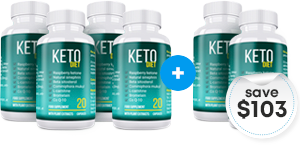
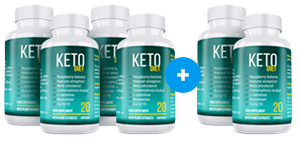
version 1.4

diff --git a/src/sass/block/purchase.scss b/src/sass/block/purchase.scss
@@ -82,6 +82,57 @@
 
 .purchase__media {
     position: relative;
+    z-index: 1;
+}
+
+.purchase__media-save {
+    display: flex;
+    flex-direction: column;
+    justify-content: center;
+    align-items: center;
+    position: absolute;
+    bottom: 0;
+    right: 0;
+    width: 78px;
+    height: 73px;
+    background-image: url('../media/purchase/save.png');
+    background-repeat: no-repeat;
+
+    & p {
+        font-size: 24px;
+        font-weight: 700;
+        line-height: .9;
+        text-align: center;
+        margin-right: 8px;
+
+        & span {
+            display: block;
+            font-size: 14px;
+        }
+    }
+}
+
+.purchase__media-normal {
+    position: absolute;
+    top: 35px;
+    left: 55px;
+    z-index: -1;
+    display: flex;
+    flex-direction: column;
+    justify-content: center;
+    width: 145px;
+    height: 90px;
+    border: 2px dashed #c5c5c5;
+    font-size: 22px;
+    font-weight: 700;
+    font-style: italic;
+    color: #c5c5c5;
+    padding: 15px 15px 15px 25px;
+    border-radius: 5px;
+
+    & span {
+        font-size: inherit;
+    }
 }
 
 .purchase__savePrice {
@@ -192,6 +243,25 @@
             font-size: 16px;
         }
     }
+
+    .purchase__media-save {
+        background-size: cover;
+        width: 60px;
+        height: 55px;
+
+        & p {
+            font-size: 16px;
+            margin-right: 5px;
+        }
+    }
+
+    .purchase__media-normal {
+        top: 23px;
+        left: 38px;
+        font-size: 16px;
+        width: 120px;
+        height: 60px;
+    }
 }
 
 @media(max-width: 768px) {
@@ -239,5 +309,30 @@
 
     .purchase__savePrice {
         bottom: -20px;
+    }
+
+    .purchase__media-save {
+        width: 45px;
+        height: 44px;
+
+        & p {
+            line-height: 1;
+            font-size: 12px;
+            margin-right: 0;
+
+            & span {
+                font-size: 12px;
+            }
+        }
+    }
+
+    .purchase__media-normal {
+        top: 15px;
+        left: 33px;
+        font-size: 14px;
+        width: 110px;
+        height: 50px;
+        padding: 10px;
+        font-weight: 400;
     }
 }
